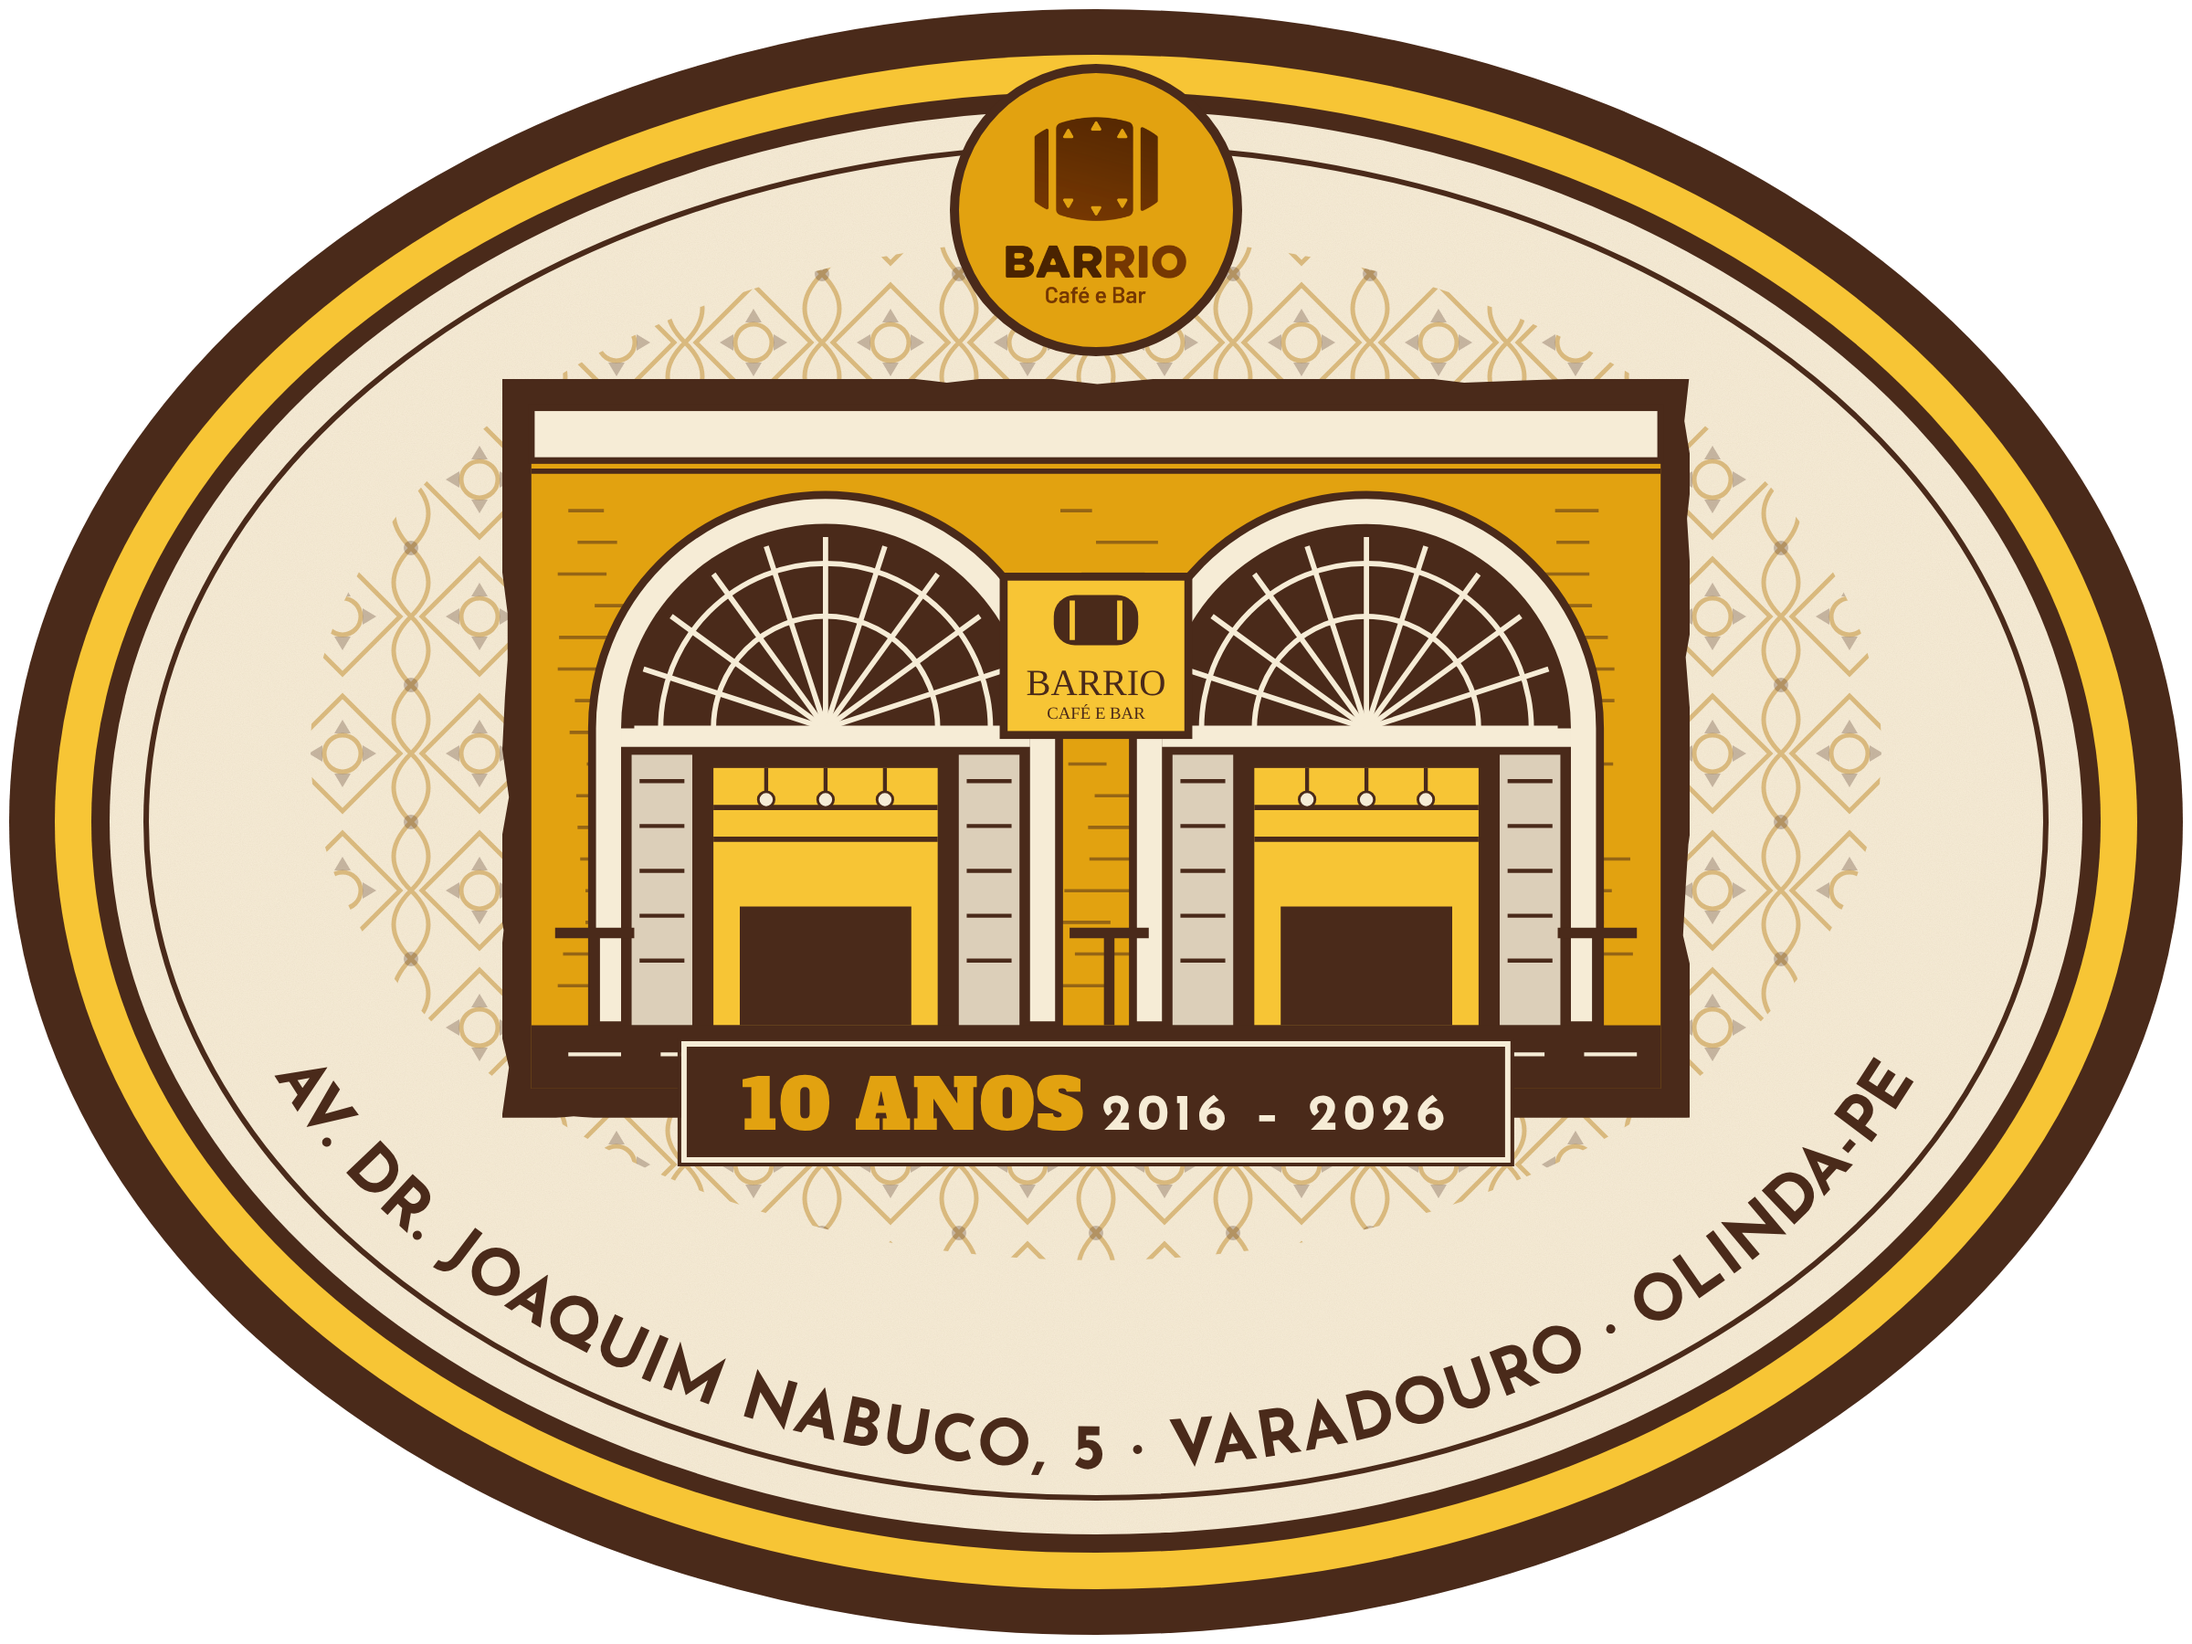
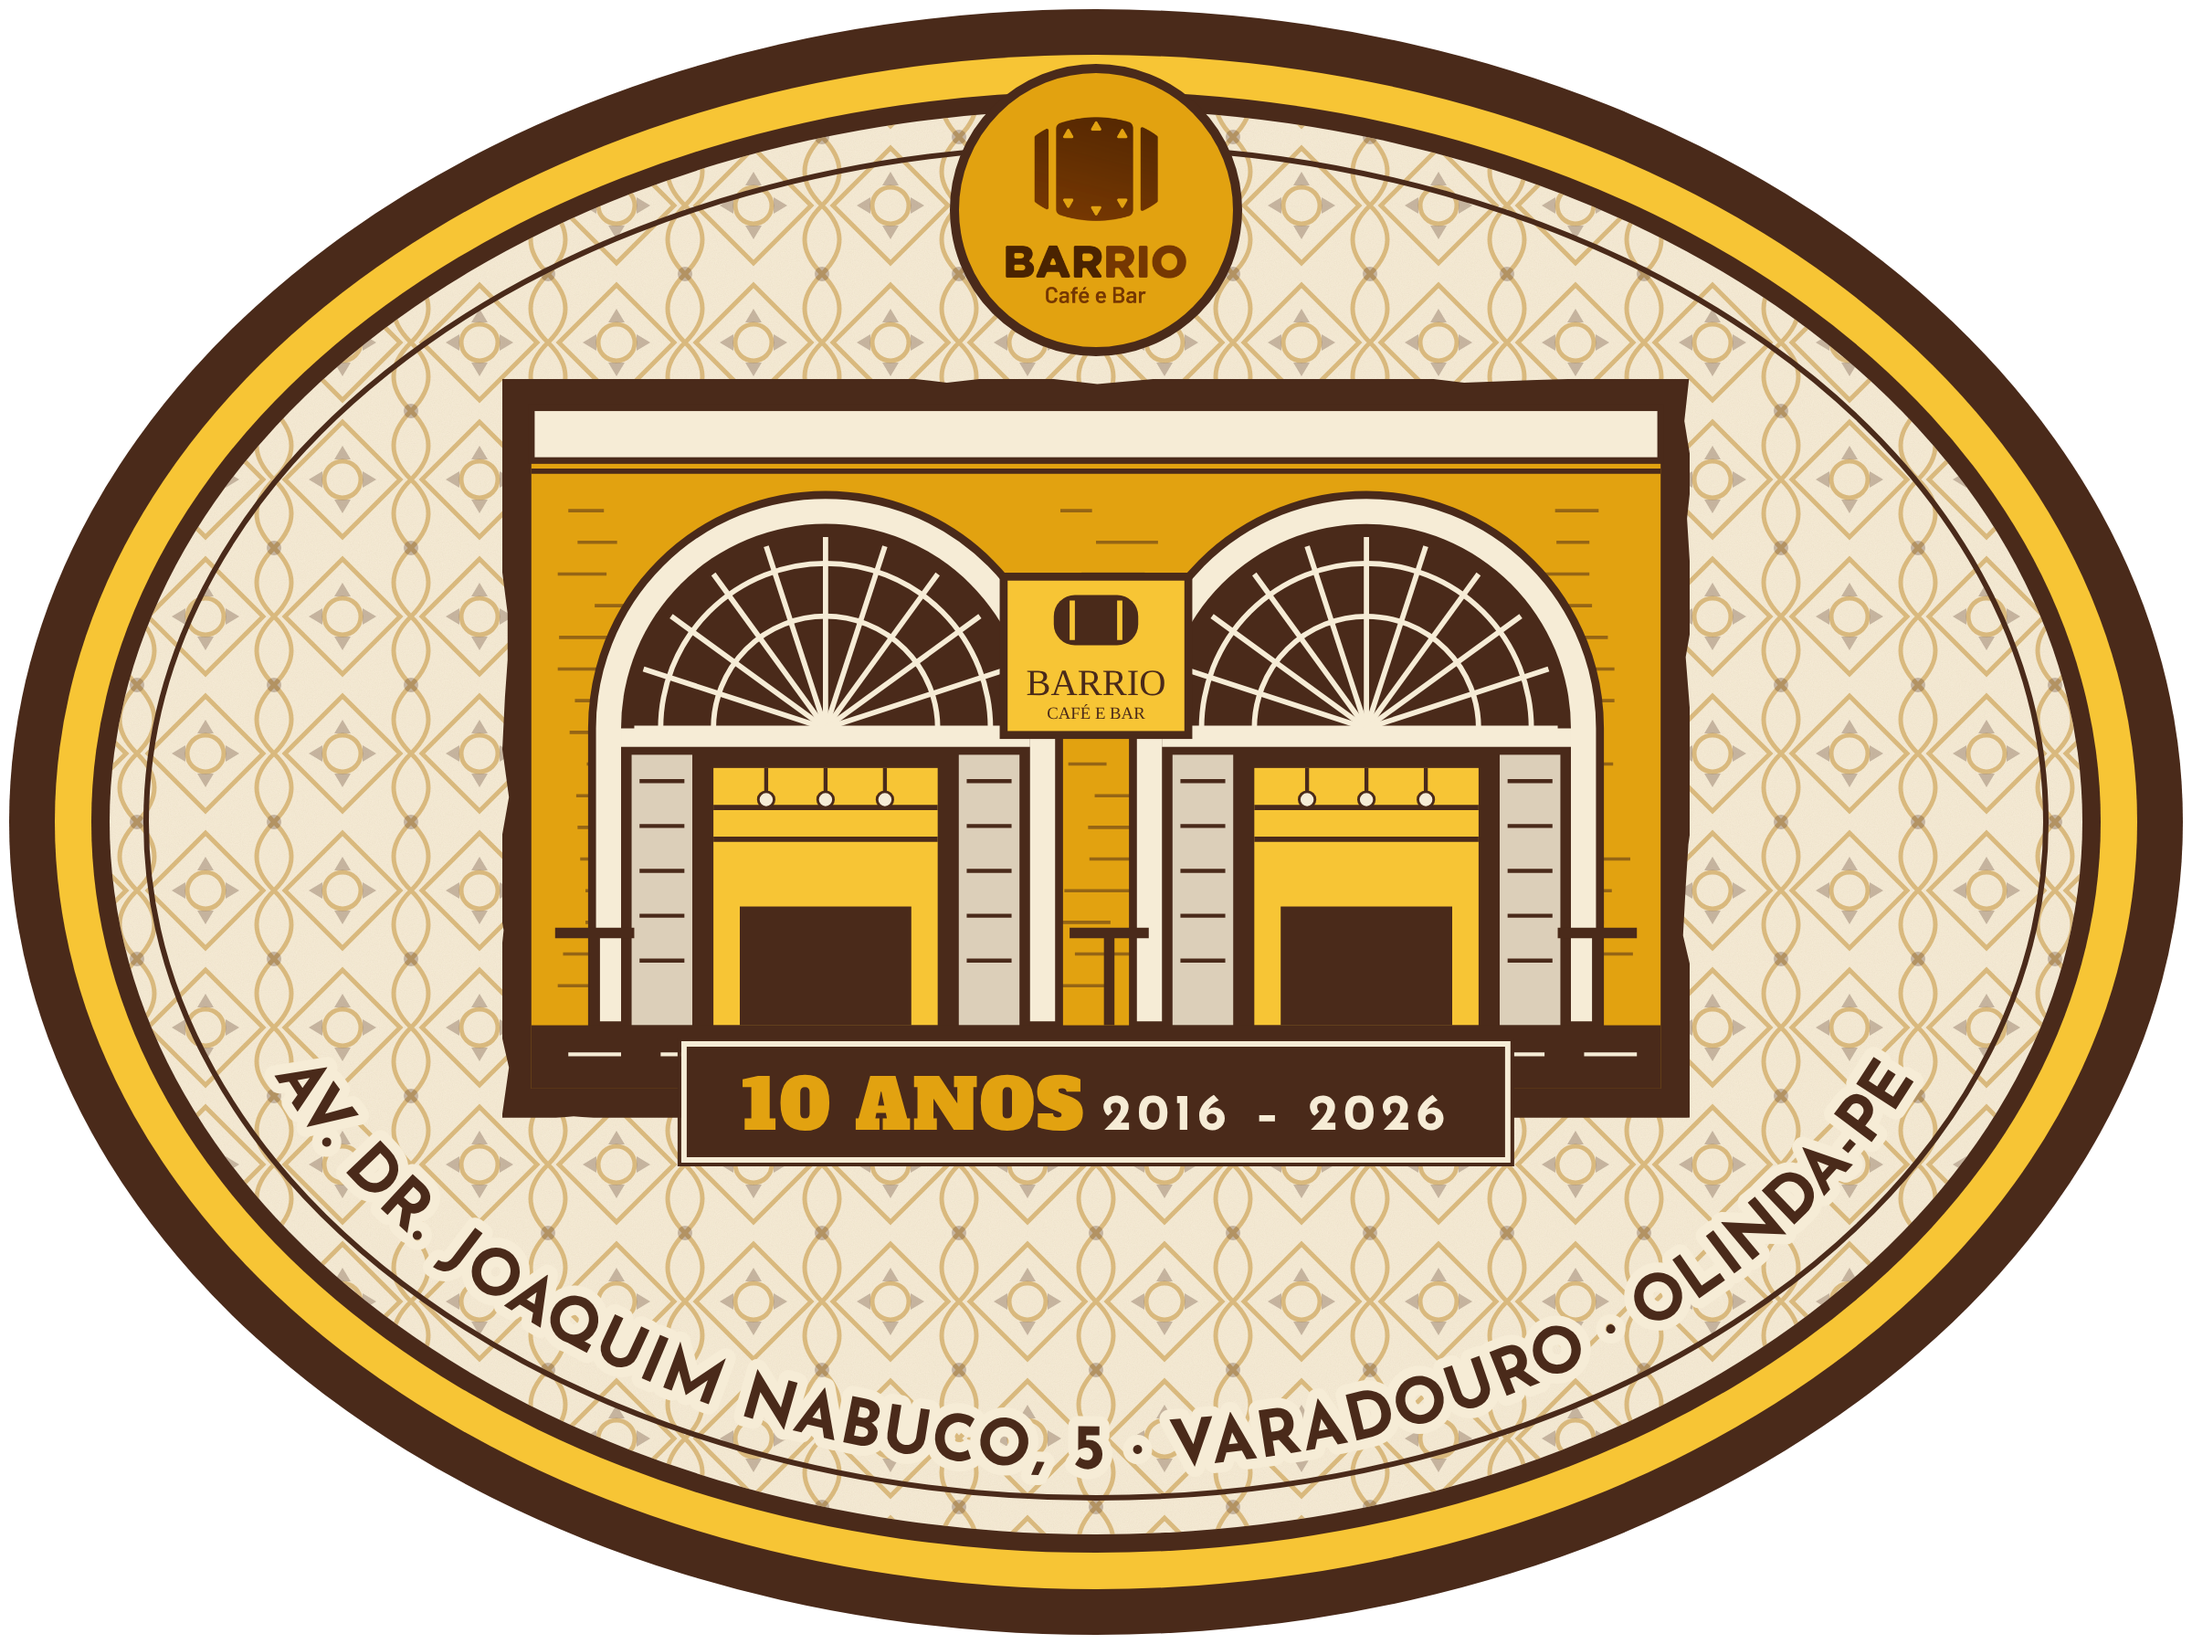
Adesivo oval: azulejos em toda a parte bege
Claude-Session: https://claude.ai/code/session_01DpBscE2ZgPUbFxmtBxoVQf

diff --git a/pecas/2026-11-05-adesivos/adesivo-oval.html b/pecas/2026-11-05-adesivos/adesivo-oval.html
@@ -38,9 +38,10 @@
     <ellipse cx="1200" cy="900" rx="1140" ry="840" fill="#f7c535"/>
     <ellipse cx="1200" cy="900" rx="1100" ry="800" fill="#4a2a1a"/>
     <ellipse cx="1200" cy="900" rx="1080" ry="780" fill="#f6ecd6"/>
-    <ellipse cx="1200" cy="900" rx="1080" ry="780" fill="url(#az)" mask="url(#so-meio)"/>
+    <ellipse cx="1200" cy="900" rx="1080" ry="780" fill="url(#az)"/>
     <ellipse cx="1200" cy="900" rx="1080" ry="780" fill="#f6ecd6" filter="url(#papel)"/>
     <ellipse cx="1200" cy="900" rx="1040" ry="740" fill="none" stroke="#4a2a1a" stroke-width="6"/>
+    <text font-family="Josefin Sans" font-weight="700" font-size="70" fill="#f6ecd6" stroke="#f6ecd6" stroke-width="22" stroke-linejoin="round" letter-spacing="5" text-anchor="middle" dy="-72"><textPath href="#baixo" startOffset="50%">AV. DR. JOAQUIM NABUCO, 5 · VARADOURO · OLINDA-PE</textPath></text>
     <text font-family="Josefin Sans" font-weight="700" font-size="70" fill="#4a2a1a" letter-spacing="5" text-anchor="middle" dy="-72"><textPath href="#baixo" startOffset="50%">AV. DR. JOAQUIM NABUCO, 5 · VARADOURO · OLINDA-PE</textPath></text>
   </svg>
   <div class="gravura"></div>
